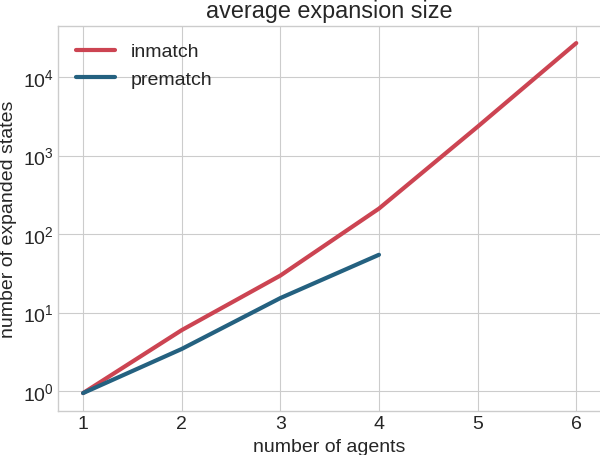
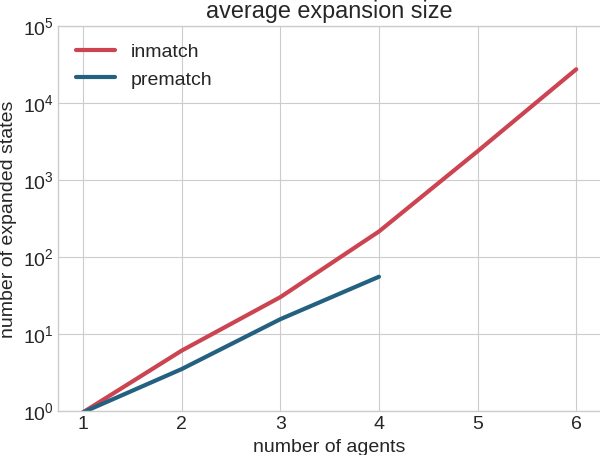
better expansion graphs

diff --git a/python/benchmarks/graph_expansion.py b/python/benchmarks/graph_expansion.py
@@ -21,6 +21,7 @@ def graph_results(*args):
     expansions.xaxis.set_major_locator(MaxNLocator(integer=True))
     expansions.set_ylabel("number of expanded states")
     expansions.set_yscale('log')
+    expansions.set_ylim(1, 10**5)
 
     expansions.set_xlabel("number of agents")
 
